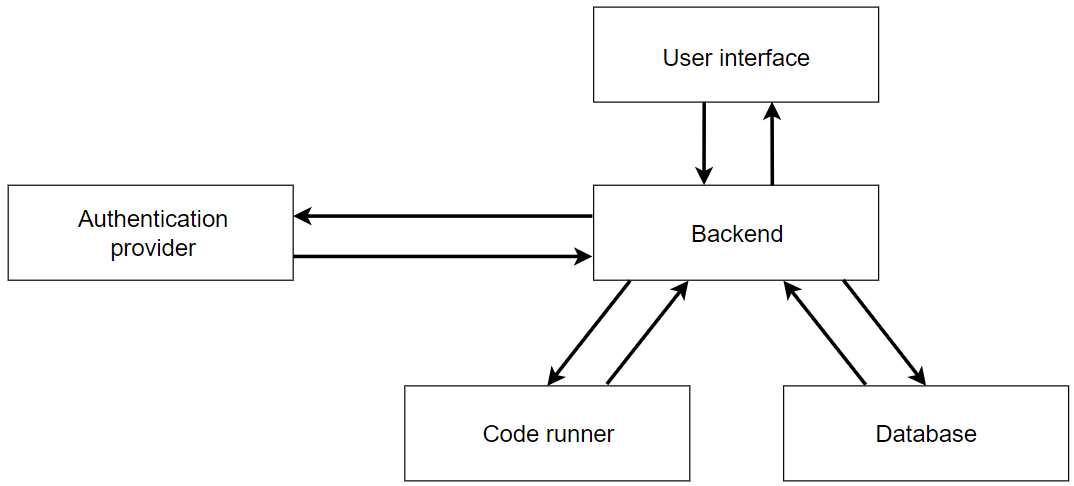
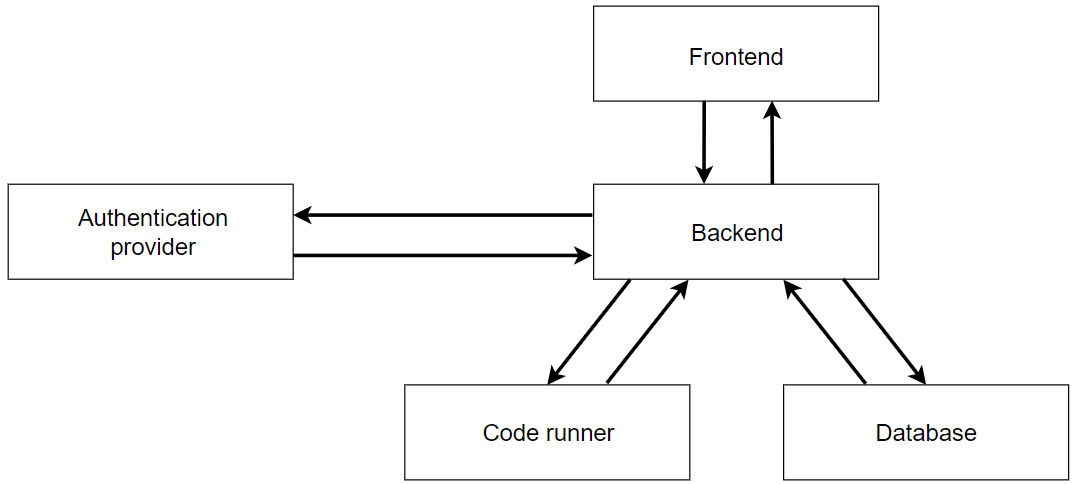
Update

diff --git a/report/sections/Chapter 4/Architecture.tex b/report/sections/Chapter 4/Architecture.tex
@@ -14,6 +14,21 @@ Based on these requirements we have created the architecture seen in figure \ref
 
 In the following sections we will describe the general structure of each component and its responsibility.
 
+\subsubsection{Frontend}
+The frontend is the user facing component of our web application. The frontend is designed such that the user-interface and the functionality on the frontend is dependent on the role of the user. 
+For example if the signed in user has a student role, the user will be able to see and complete exercises, where if the user has a role of teacher, they will have access to more functionality such as creating a syllabus or exercise.
+
+Therefore the responsibility of the frontend can be split into two categories: 
+\begin{itemize}
+    \item \textbf{Teacher}-based responsibilities and,
+    \item \textbf{Student}-based responsibilities.
+\end{itemize}
+
+\subsubsection*{Teacher-based responsibilities}
+If the signed in user is a teacher the frontend the frontend provides the user the ability to create syllabi, sessions, exercises and test cases for the given exercise, as well as they ability to complete exercises. The latter functionality was included to allow teachers to try out the exercises and ensure that the test cases behave as expected before releasing the exercise to the students.
+
+\subsubsection*{Student-based responsibilities}
+
 %Describe the following:
 %1. The system must be able to provide a suitable UI for the user, but should not use their computer for anything else 
 %2. The system must be able to provide some way to execute haskell code and assert whether or not the code is correct. 
